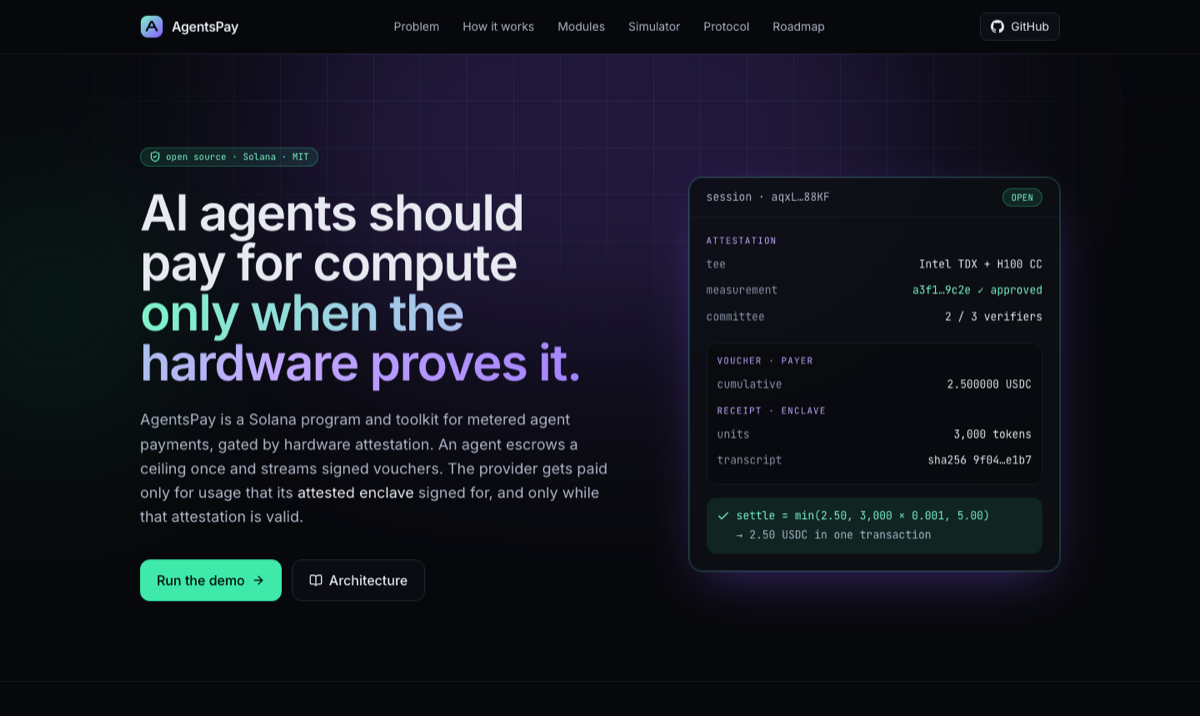
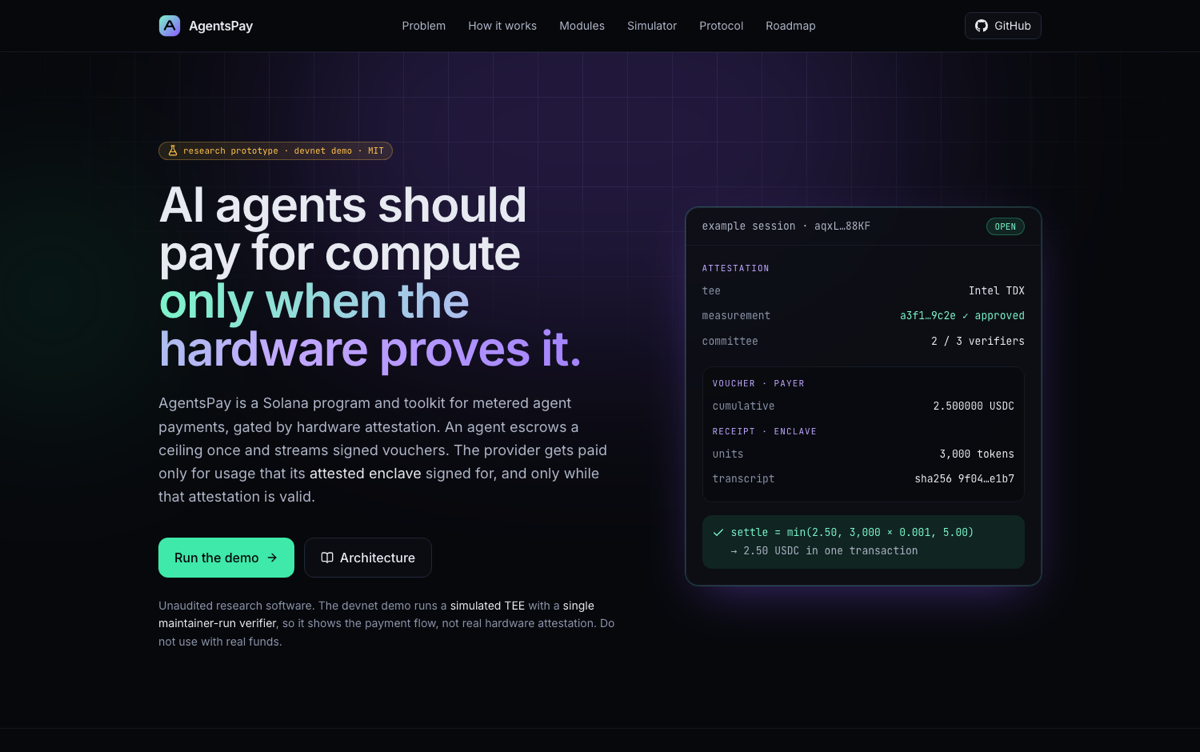
docs: label AgentsPay a research prototype; align devnet status
The README status section and architecture limitations still said
"Localnet only" after the devnet deployment. They now agree with the
rest of the docs, and every surface states the same limits up front:

- research prototype, unaudited, not for real funds
- devnet demo runs the simulated TEE (no real hardware attestation)
- devnet verifier committee is 1-of-1, run by the maintainer
- TDX path implemented but not yet run on real hardware

README: status badge and callout at the top, demo note on the devnet
section, roadmap lists real-hardware TDX, an independent committee and
an audit as open items. Architecture: status banner, "what exists
today" note under the trust anchors, expanded known limitations, and a
fix for the Simulated measurement row (unescaped pipes broke the table
on GitHub). Overview: status banner and table rows for the committee
and audit.

Website: prototype pill and disclaimer in the hero, the hero card is
labelled as an example and no longer lists H100 CC, guarantees are
framed as design guarantees with the demo caveat, and the roadmap,
quickstart note, diagram and footer drop SEV-SNP/GPU CC as if shipped.
Regenerated docs/assets/site-hero.png from the updated site.

diff --git a/apps/web/src/components/Protocol.tsx b/apps/web/src/components/Protocol.tsx
@@ -71,7 +71,12 @@ const guarantees = [
 
 export function Security() {
   return (
-    <Section id="security" eyebrow="Guarantees" title="Who can cheat whom? Nobody gets a free lunch.">
+    <Section
+      id="security"
+      eyebrow="Design guarantees"
+      title="Who can cheat whom? Nobody gets a free lunch."
+      lead="These hold by design, assuming a genuine TEE and an honest verifier quorum. The devnet demo has neither (simulated TEE, one maintainer-run verifier), and none of this has been audited yet."
+    >
       <div className="grid gap-5 sm:grid-cols-2 lg:grid-cols-4">
         {guarantees.map(({ icon: Icon, title, body }) => (
           <Card key={title}>
@@ -126,16 +131,34 @@ export function Quickstart() {
         </pre>
       </div>
       <p className="mt-4 text-sm text-ink-400">
-        Requires Rust, Solana CLI 4.x, Anchor 1.2 and Bun 1.4. The demo uses a simulated TEE; real deployments set{" "}
-        <Code>allow_simulated_tee = false</Code> and run the gateway in a TDX or SEV-SNP confidential VM.
+        Requires Rust, Solana CLI 4.x, Anchor 1.2 and Bun 1.4. The local demo and the devnet deployment both use a simulated TEE. A
+        production deployment would set <Code>allow_simulated_tee = false</Code> and run the gateway in a TDX confidential VM (SEV-SNP
+        is on the roadmap).
       </p>
     </Section>
   );
 }
 
 const roadmap = [
-  { phase: "Now", items: ["Anchor program: attestation, sessions, vaults, credits, paid feedback", "TS SDK, gateway (simulated + TDX), verifier, agent demo"] },
-  { phase: "Next", items: ["SEV-SNP and NVIDIA CC (NRAS) verifiers", "x402 `upto` / MPP `session` HTTP compatibility", "8004 bridge: PaidFeedback → giveFeedback"] },
+  {
+    phase: "Now",
+    items: [
+      "Anchor program: attestation, sessions, vaults, credits, paid feedback",
+      "TS SDK, gateway (simulated + TDX), verifier, agent demo",
+      "Devnet demo: simulated TEE, single maintainer-run verifier",
+    ],
+  },
+  {
+    phase: "Next",
+    items: [
+      "TDX path on real hardware",
+      "Independent multi-party verifier committee",
+      "Security audit",
+      "SEV-SNP and NVIDIA CC (NRAS) verifiers",
+      "x402 `upto` / MPP `session` HTTP compatibility",
+      "8004 bridge: PaidFeedback → giveFeedback",
+    ],
+  },
   { phase: "Later", items: ["ZK attestation: SP1 / RISC Zero DCAP proof → Groth16 on alt_bn128", "Payment Channels interop: AgentsPay as a PDA payee", "Credit AMMs and capacity futures"] },
 ];
 

diff --git a/apps/web/src/components/Hero.tsx b/apps/web/src/components/Hero.tsx
@@ -1,4 +1,4 @@
-import { ArrowRight, BookOpen, Check, ShieldCheck } from "lucide-react";
+import { ArrowRight, BookOpen, Check, FlaskConical } from "lucide-react";
 
 import { DOCS_URL, GithubMark, Pill, REPO_URL } from "./ui";
 
@@ -61,8 +61,8 @@ export function Hero() {
 
       <div className="relative mx-auto grid max-w-6xl gap-14 px-4 pt-20 pb-24 sm:px-6 sm:pt-28 lg:grid-cols-[1.15fr_0.85fr] lg:items-center">
         <div>
-          <Pill>
-            <ShieldCheck className="size-3.5" /> open source · Solana · MIT
+          <Pill tone="amber">
+            <FlaskConical className="size-3.5" /> research prototype · devnet demo · MIT
           </Pill>
           <h1 className="mt-6 text-4xl font-semibold tracking-tight text-balance sm:text-6xl">
             AI agents should pay for compute <span className="text-gradient">only when the hardware proves it.</span>
@@ -86,6 +86,11 @@ export function Hero() {
               <BookOpen className="size-4" /> Architecture
             </a>
           </div>
+          <p className="mt-6 max-w-xl text-sm leading-relaxed text-ink-400">
+            Unaudited research software. The devnet demo runs a <span className="text-ink-100">simulated TEE</span> with a{" "}
+            <span className="text-ink-100">single maintainer-run verifier</span>, so it shows the payment flow, not real hardware
+            attestation. Do not use with real funds.
+          </p>
         </div>
 
         <SessionCard />
@@ -107,13 +112,13 @@ function SessionCard() {
   return (
     <div className="glow rounded-2xl border border-ink-700 bg-ink-900/90 font-mono text-[13px] backdrop-blur">
       <div className="flex items-center justify-between border-b border-ink-800 px-5 py-3">
-        <span className="text-ink-300">session · aqxL…88KF</span>
+        <span className="text-ink-300">example session · aqxL…88KF</span>
         <Pill>OPEN</Pill>
       </div>
       <div className="space-y-4 p-5">
         <div>
           <p className="mb-1 text-[11px] tracking-widest text-iris-300 uppercase">attestation</p>
-          <Row k="tee" v="Intel TDX + H100 CC" />
+          <Row k="tee" v="Intel TDX" />
           <Row k="measurement" v="a3f1…9c2e ✓ approved" tone="text-mint-300" />
           <Row k="committee" v="2 / 3 verifiers" />
         </div>

diff --git a/packages/sdk/src/attestation.ts b/packages/sdk/src/attestation.ts
@@ -81,7 +81,9 @@ export function simulatedMeasurement(descriptor: string): Uint8Array {
 // ---------------------------------------------------------------------------
 // The "simulated vendor" root key is public and deterministic. It stands in
 // for Intel/AMD/NVIDIA certificate chains so the full verifier pipeline can be
-// exercised on localnet. Deployments must set `allow_simulated_tee = false`.
+// exercised without TEE hardware (localnet and the devnet demo). It proves
+// nothing about real hardware: production deployments must set
+// `allow_simulated_tee = false`.
 
 const SIM_VENDOR_SEED = sha256(new TextEncoder().encode("agentspay:simulated-tee-vendor:v1"));
 export const SIMULATED_VENDOR = nacl.sign.keyPair.fromSeed(SIM_VENDOR_SEED);

diff --git a/apps/web/src/App.tsx b/apps/web/src/App.tsx
@@ -24,7 +24,7 @@ export default function App() {
       <footer className="border-t border-ink-800">
         <div className="mx-auto flex max-w-6xl flex-col items-start justify-between gap-4 px-4 py-10 text-sm text-ink-400 sm:flex-row sm:items-center sm:px-6">
           <div className="flex items-center gap-2.5">
-            <Logo className="size-5" /> AgentsPay · MIT License
+            <Logo className="size-5" /> AgentsPay · MIT License · research prototype, unaudited
           </div>
           <div className="flex flex-wrap gap-6">
             <a className="hover:text-ink-100" href={`${DOCS_URL}/project-overview.md`}>

diff --git a/apps/web/index.html b/apps/web/index.html
@@ -3,7 +3,7 @@
   <head>
     <meta charset="UTF-8" />
     <meta name="viewport" content="width=device-width, initial-scale=1.0" />
-    <meta name="description" content="AgentsPay: attestation-gated, metered payments for AI agents on Solana. Pay for compute only when the hardware proves it." />
+    <meta name="description" content="AgentsPay: attestation-gated, metered payments for AI agents on Solana. Research prototype with a simulated-TEE devnet demo." />
     <meta name="theme-color" content="#07080c" />
     <title>AgentsPay</title>
     <link rel="icon" href="./favicon.svg" type="image/svg+xml" />

diff --git a/apps/web/src/components/HowItWorks.tsx b/apps/web/src/components/HowItWorks.tsx
@@ -96,7 +96,7 @@ function Diagram() {
         <div className={`${box} border-mint-400/40`}>
           <Server className="mx-auto mb-1 size-5 text-mint-300" />
           Provider gateway in TEE
-          <p className="mt-1 text-[11px] text-ink-400">TDX / SEV-SNP CVM + GPU CC · receipt key never leaves</p>
+          <p className="mt-1 text-[11px] text-ink-400">TDX CVM (simulated in demo) · receipt key never leaves</p>
         </div>
         <Arrow label="voucher + receipt" />
         <div className={box}>

diff --git a/apps/web/src/components/Modules.tsx b/apps/web/src/components/Modules.tsx
@@ -43,7 +43,7 @@ const modules = [
     name: "Off-chain toolkit",
     pitch: "Everything around the program, in TypeScript on Bun.",
     ixs: ["@agentspay/sdk", "gateway", "verifier", "agent-demo", "web"],
-    points: ["OpenAI-compatible gateway with sealed prompts", "Verifier with simulated + TDX paths", "One-command localnet demo"],
+    points: ["OpenAI-compatible gateway with sealed prompts", "Verifier with simulated + TDX paths", "One-command localnet demo; devnet demo deployment"],
   },
 ];
 

diff --git a/README.md b/README.md
@@ -12,13 +12,18 @@ Pay for compute only when the hardware proves it.
 ![Solana](https://img.shields.io/badge/Solana-program-8a5cff.svg)
 ![Anchor](https://img.shields.io/badge/Anchor-1.2.2-3ee9a9.svg)
 ![Bun](https://img.shields.io/badge/Bun-1.4-f9f1e1.svg)
-[![Devnet](https://img.shields.io/badge/devnet-live-14d38f.svg)](https://explorer.solana.com/address/EZsX7kN4Zb555Aaov2v9MBUC543JVmL5P6cQGAytUkdT?cluster=devnet)
+[![Devnet](https://img.shields.io/badge/devnet-live%20demo-14d38f.svg)](https://explorer.solana.com/address/EZsX7kN4Zb555Aaov2v9MBUC543JVmL5P6cQGAytUkdT?cluster=devnet)
+![Status: research prototype](https://img.shields.io/badge/status-research%20prototype-f5a524.svg)
 
 [Overview](docs/project-overview.md) · [Architecture](docs/architecture.md) · [Live on devnet](#live-on-devnet) · [Quickstart](#quickstart) · [SDK](#use-the-sdk) · [Website](#website)
 
 <img src="docs/assets/site-hero.png" alt="AgentsPay website" width="860" />
 
 </div>
+
+> [!IMPORTANT]
+> **Research prototype. Unaudited. Do not use with real funds.**
+> The program is deployed on **devnet only** (not mainnet). The devnet demo runs a **simulated TEE**: a public development key stands in for the Intel/AMD/NVIDIA signing chain, so no real hardware attestation takes place. Attestations are approved by a **single verifier run by the maintainer**. The Intel TDX path is implemented but has not been run on real TDX hardware. See [Status & roadmap](#status--roadmap).
 
 ---
 
@@ -41,7 +46,7 @@ The program pays `min(voucher, N × price, deposit)`, **and only while the provi
 
 ```mermaid
 flowchart LR
-  A[Agent] -- "sealed prompt + voucher" --> G["Gateway in TEE<br/>(TDX / SEV-SNP + GPU CC)"]
+  A[Agent] -- "sealed prompt + voucher" --> G["Gateway in TEE<br/>(Intel TDX; simulated in the demo)"]
   G -- "response + enclave receipt" --> A
   G -- "[Ed25519 voucher, Ed25519 receipt, settle]" --> P[[AgentsPay program]]
   V[Verifier committee] -- approve_attestation --> P
@@ -61,6 +66,9 @@ Plus an off-chain toolkit in TypeScript on **Bun**: SDK, OpenAI-compatible provi
 
 ## Live on devnet
 
+> [!NOTE]
+> This is a **demo deployment, not a security boundary.** It runs the **simulated TEE** (`allow_simulated_tee = true`) and a **one-member verifier committee run by the maintainer**. It shows the full payment flow working on a public cluster. It does not prove anything about real hardware.
+
 | | Address |
 | --- | --- |
 | **Program** | [`EZsX7kN4Zb555Aaov2v9MBUC543JVmL5P6cQGAytUkdT`](https://explorer.solana.com/address/EZsX7kN4Zb555Aaov2v9MBUC543JVmL5P6cQGAytUkdT?cluster=devnet) |
@@ -70,11 +78,11 @@ Plus an off-chain toolkit in TypeScript on **Bun**: SDK, OpenAI-compatible provi
 
 Real transactions from the end-to-end demo on devnet:
 
-- 🛡 [Verifier approves a provider's TEE attestation](https://explorer.solana.com/tx/5JWMqeBxTTqY9THZ2gyaAoD6sbxZpedaoK11PJPs8S6PsRh5H2wiD4Ew89Z4LiE8nWdQVi3Zg6dJmfwuMakJN3nT?cluster=devnet)
+- 🛡 [Verifier approves a provider's (simulated) TEE attestation](https://explorer.solana.com/tx/5JWMqeBxTTqY9THZ2gyaAoD6sbxZpedaoK11PJPs8S6PsRh5H2wiD4Ew89Z4LiE8nWdQVi3Zg6dJmfwuMakJN3nT?cluster=devnet)
 - ⚡ [One transaction settles 3 paid inference calls (voucher + enclave receipt) and refunds the rest](https://explorer.solana.com/tx/46WqbkgqmwT9GoYeA8xZgCCdZLQpxSoAiixZDNuogqzrBDp9ZsX1nezfQQF5sX3sdnx7wKqS66mr3fjqyfqMLpCr?cluster=devnet)
 - ⭐ [Payment-backed rating from the agent](https://explorer.solana.com/tx/kF8Edi4fDEDaFPV34nryv3ruoUSU7epsdYwcVFikwkPjYPXgVQ85g8mSRqiCHe6djDFZt4gpsE5hozJf43ENGHp?cluster=devnet)
 
-All addresses are in [`deployments/devnet.json`](deployments/devnet.json). The devnet deployment uses the **simulated TEE** and a one-member verifier committee run by the maintainer, so treat it as a demo, not a security boundary.
+All addresses are in [`deployments/devnet.json`](deployments/devnet.json).
 
 Run the agent yourself against devnet: `bash scripts/demo-devnet.sh` (after `bun run bootstrap` with `RPC_URL=https://api.devnet.solana.com`; see [Deploy to devnet](#deploy-to-devnet)).
 
@@ -200,17 +208,19 @@ The site explains the problem and protocol and includes a **live settlement simu
 
 ## Status & roadmap
 
-> ⚠ **Unaudited research software.** Localnet only. Do not use with real funds.
+> ⚠ **Research prototype. Unaudited. Do not use with real funds.** Deployed on devnet only (not mainnet), as a demo with a simulated TEE and a single maintainer-run verifier. Not production-ready.
 
 - [x] Program: attestation registry, attested sessions, vaults, credits, paid feedback
 - [x] SDK, gateway (simulated + TDX), verifier (simulated + TDX + DCAP hook), agent demo, website
+- [x] Devnet deployment (demo: simulated TEE, 1-of-1 maintainer-run verifier committee)
+- [ ] Run the TDX path end to end on real TDX hardware
+- [ ] Independent, multi-party verifier committee
+- [ ] Security audit
 - [ ] SEV-SNP, NVIDIA CC (NRAS) and AWS Nitro verifiers
 - [ ] x402 `upto` / MPP `session` wire compatibility
 - [ ] 8004 bridge: `PaidFeedback` → `giveFeedback`
 - [ ] ZK attestation: SP1 / RISC Zero DCAP proof → Groth16 on `alt_bn128`
 - [ ] Payment Channels interop: AgentsPay as an attested PDA payee
-- [x] Devnet deployment
-- [ ] Security audit
 
 ## Contributing
 

diff --git a/docs/architecture.md b/docs/architecture.md
@@ -2,6 +2,8 @@
 
 This document describes how AgentsPay works: components, on-chain accounts, the settlement rule, the attestation pipeline, the HTTP protocol, and the security model. For the motivation, see [project-overview.md](./project-overview.md).
 
+> **Status: research prototype, unaudited.** This document describes the *target* design. The program is deployed on devnet only, as a demo that runs the **simulated TEE** with a **single maintainer-run verifier**. No real hardware attestation is involved. See [13. Known limitations](#13-known-limitations).
+
 - [1. System at a glance](#1-system-at-a-glance)
 - [2. Repository layout](#2-repository-layout)
 - [3. On-chain program](#3-on-chain-program)
@@ -54,6 +56,8 @@ There are three trust anchors:
 1. **Hardware**: the TEE vendor's root of trust (Intel, AMD, NVIDIA) signs a quote over the launch measurement and `REPORTDATA`.
 2. **Governance**: the admin approves which *workload measurements* (reproducible builds of gateway + model) may be paid for.
 3. **Verifier committee**: M-of-N keys attest that they verified the vendor quote. Today this is a committee; the design leaves room for a ZK proof instead.
+
+**What exists today.** The gateway implements a simulated TEE and Intel TDX. The TDX path has not yet been run on real hardware. SEV-SNP and NVIDIA GPU CC, shown in the diagram, are roadmap. The devnet deployment replaces anchor 1 with the simulated vendor key and anchor 3 with a 1-of-1 committee run by the maintainer, so it demonstrates the payment flow, not the trust model.
 
 ## 2. Repository layout
 
@@ -186,7 +190,7 @@ sequenceDiagram
 | Intel TDX | `SHA-384(MRTD ‖ RTMR0 ‖ RTMR1 ‖ RTMR2 ‖ RTMR3)`: pins firmware, kernel, cmdline and the app layer |
 | AMD SEV-SNP | report `MEASUREMENT` (roadmap) |
 | NVIDIA CC | CPU CVM measurement + GPU evidence via NRAS, nonce = report data (roadmap) |
-| Simulated | `SHA-384("agentspay-gateway:<ver>|backend=<b>|model=<m>")`, signed by a public dev "vendor" key |
+| Simulated | `SHA-384("agentspay-gateway:<ver>\|backend=<b>\|model=<m>")`, signed by a public dev "vendor" key (no hardware involved) |
 
 **Verifier implementation status.** Simulated: full. TDX: parsing, measurement derivation and key binding are implemented; signature-chain and TCB verification are delegated to an external DCAP tool via `DCAP_VERIFY_CMD`, and the verifier refuses if none is configured. SEV-SNP, NVIDIA and Nitro are refused with an explicit reason.
 
@@ -291,7 +295,10 @@ PaidFeedback { session, provider, agent_asset, payer, mint, settled, units, rati
 
 ## 13. Known limitations
 
-- **Unaudited.** Localnet only. Do not use with real funds.
+- **Research prototype, unaudited.** Deployed on devnet only (not mainnet). Do not use with real funds.
+- **The devnet deployment uses the simulated TEE** (`allow_simulated_tee = true`). Its "vendor" signing key is public and deterministic, so anyone can produce a quote that verifies. There is no real hardware attestation on devnet.
+- **The devnet verifier committee is 1-of-1, run by the maintainer.** Approval there is trusted, not independent. Real deployments need an M-of-N committee of independent operators, or the ZK verifier on the roadmap.
+- **The TDX path has not been run on real TDX hardware.** Quote generation, parsing and measurement derivation are implemented. Signature-chain and TCB checks depend on an external DCAP tool.
 - The verifier fetches arbitrary `evidence_uri`s. Run it isolated (SSRF), with timeouts and size limits (implemented).
 - The gateway's metering ledger is a local JSON file, single process. Production needs a durable store.
 - Settlement requires the attestation to be valid *at settle time*, so providers must settle before expiry and re-attest on rotation.

diff --git a/docs/project-overview.md b/docs/project-overview.md
@@ -5,6 +5,8 @@
 
 This document explains *why* AgentsPay exists: the landscape it builds on, the gaps it closes, who it is for, and what is and isn't in scope. For *how* it works, see [architecture.md](./architecture.md).
 
+> **Status: research prototype, unaudited.** Deployed on devnet only, as a demo that runs a **simulated TEE** with a **single maintainer-run verifier**. It does not yet perform real hardware attestation. See [7. Status](#7-status).
+
 ---
 
 ## 1. Context: Solana is where agents pay
@@ -70,11 +72,13 @@ AgentsPay is an Anchor program plus a TypeScript toolkit (Bun). A provider's gat
 - TypeScript SDK: PDAs, message codecs, sealed prompts, evidence helpers and a typed client.
 - Reference gateway: OpenAI-compatible, sealed prompts, voucher admission, enclave receipts, a settlement worker. Simulated and Intel TDX (configfs-tsm) enclaves.
 - Verifier service: simulated + TDX evidence checks, an external DCAP hook, a re-check and revoke loop.
-- Agent demo and a one-command localnet demo.
+- Agent demo, a one-command localnet demo, and a devnet demo deployment (simulated TEE, single maintainer-run verifier).
 - Project website (Vite + React + Tailwind) with a live settlement simulator.
 
 **Out of scope for now / roadmap**
 
+- Real hardware attestation in a public deployment (devnet uses the simulated TEE).
+- An independent, multi-party verifier committee (devnet has one maintainer-run verifier).
 - On-chain or ZK verification of vendor quotes (committee only today).
 - SEV-SNP, NVIDIA CC (NRAS) and AWS Nitro verifiers.
 - Wire compatibility with x402 `upto` / MPP `session` (the protocol is modelled on them but not identical).
@@ -86,9 +90,12 @@ AgentsPay is an Anchor program plus a TypeScript toolkit (Bun). A provider's gat
 
 | Area | Status |
 | --- | --- |
-| Program | Feature-complete for v0.1; all tests pass on LiteSVM. **Live on devnet** at `EZsX7kN4Zb555Aaov2v9MBUC543JVmL5P6cQGAytUkdT`; not on mainnet. |
-| SDK / gateway / verifier / demo | Working end to end on `solana-test-validator` and on **devnet** with the simulated TEE. |
+| Overall | **Research prototype.** Unaudited, not production-ready. Do not use with real funds. |
+| Program | Feature-complete for v0.1; all tests pass on LiteSVM. **Live on devnet** at `EZsX7kN4Zb555Aaov2v9MBUC543JVmL5P6cQGAytUkdT` as a demo; not on mainnet. |
+| SDK / gateway / verifier / demo | Working end to end on `solana-test-validator` and on **devnet** with the **simulated TEE**. |
+| Verifier committee | Devnet: one verifier, run by the maintainer (1-of-1). Not independent. |
 | TDX path | Implemented (quote generation via configfs-tsm, parsing, measurement derivation); not yet exercised on real hardware. |
+| Security audit | None yet. |
 | Website | Builds; static, deployable to any host. |
 
 ## 8. Sources
